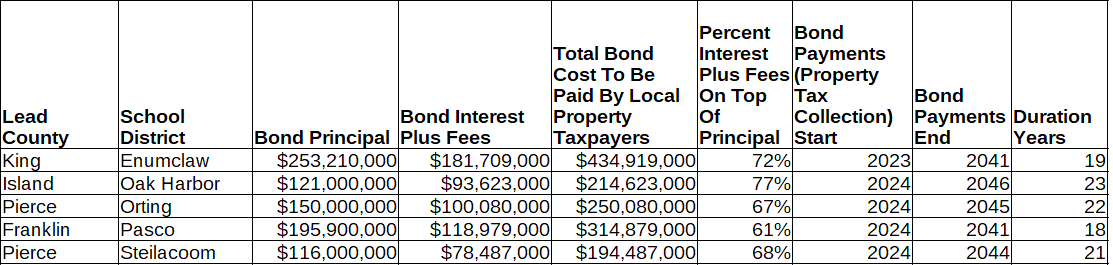
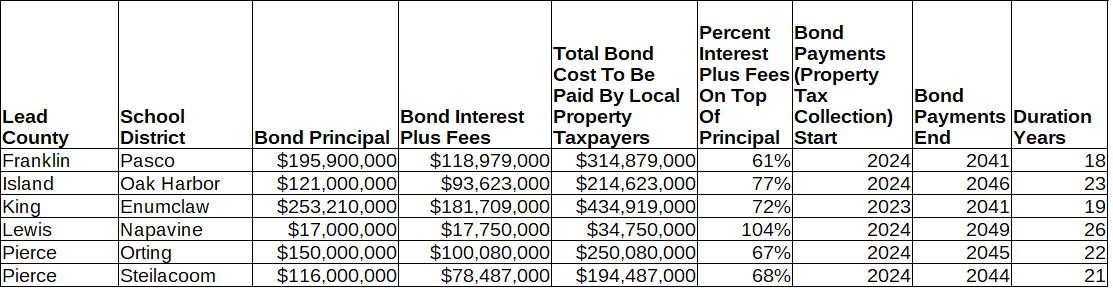
Added Napavine bond info

Changed region(s): [[0.0, 0.0906, 1.0, 1.0], [0.0, 0.0, 0.9775, 0.0302]]

diff --git a/_includes/cost_estimates/20230214/Napavine_20230214_Enhanced.html b/_includes/cost_estimates/20230214/Napavine_20230214_Enhanced.html
@@ -1,0 +1,233 @@
+<html>
+ <head>
+  <script type="text/javascript" src="https://www.gstatic.com/charts/loader.js"></script>
+  <script type="text/javascript">
+    google.charts.load('current', {'packages':['corechart','bar','table']});
+    google.charts.setOnLoadCallback(drawStuff);
+
+	var table_input;
+	var table;
+	var chart;
+	//var data;
+	var dataParcel;
+	
+	totalBondAV = 655773000;
+	sampleParcelAV = 350000;
+	sampleParcelAVMin = 100000;
+	sampleParcelAVMax = 2000000;
+	totalBondPrincipal = 17000000;
+	totalBondInterest = 17750000;
+	totalBondCost = totalBondPrincipal + totalBondInterest;
+	sampleParcelPOF = sampleParcelAV / totalBondAV;
+	totalBondCostParcel = 0;
+	totalBondPrincipalParcel = 0;
+	totalBondInterestParcel = 0;
+	bondYears = 26;
+	averageTotalBondCostParcel = 0;
+
+	// POF Annual Change Percent
+	pofAdjust = 0;
+	pofAdjustMin = -1.0;
+	pofAdjustMax = 1.0;
+
+    function drawStuff() {
+		data = new google.visualization.DataTable();
+		data.addColumn('string', 'Year');
+		data.addColumn('number', 'Principal');
+		data.addColumn('number', 'Interest + Fees');
+
+		data.addRows([
+			['2024', 533250, 522750],
+			['2025', 53045, 1056955],
+			['2026', 154057, 1000943],
+			['2027', 231451, 991549],
+			['2028', 256573, 977427],
+			['2029', 282226, 961774],
+			['2030', 313566, 944434],
+			['2031', 344833, 925167],
+			['2032', 381021, 903979],
+			['2033', 416433, 880567],
+			['2034', 453022, 854978],
+			['2035', 498860, 827140],
+			['2036', 539286, 796714],
+			['2037', 584177, 763823],
+			['2038', 635009, 727991],
+			['2039', 689740, 689260],
+			['2040', 744807, 647193],
+			['2041', 804231, 601769],
+			['2042', 868280, 552720],
+			['2043', 932237, 499763],
+			['2044', 1006093, 442907],
+			['2045', 1078457, 381543],
+			['2046', 1163237, 315763],
+			['2047', 1248183, 244817],
+			['2048', 1337593, 167407],
+			['2049', 1450333, 70667],
+
+		]);
+
+		dataParcel = new google.visualization.DataTable();
+		dataParcel.addColumn('string', 'Year');
+		dataParcel.addColumn('number', 'Principal');
+		dataParcel.addColumn('number', 'Interest + Fees');
+
+		dataParcel.addRows(bondYears);
+
+		sampleParcelPOFEffective = sampleParcelPOF;
+		totalBondPrincipalParcel = 0;
+		totalBondInterestParcel = 0;
+		for (let i = 0; i < bondYears; i++) {
+			sampleParcelPOFEffective = sampleParcelPOF * (1 + pofAdjust/100) ** (1 + i);
+			dataParcel.setCell(i, 0, data.getValue(i, 0));
+			dataParcel.setCell(i, 1, data.getValue(i, 1) * sampleParcelPOFEffective);
+			dataParcel.setCell(i, 2, data.getValue(i, 2) * sampleParcelPOFEffective);
+			totalBondPrincipalParcel = totalBondPrincipalParcel +  data.getValue(i, 1) * sampleParcelPOFEffective;
+			totalBondInterestParcel = totalBondInterestParcel +  data.getValue(i, 2) * sampleParcelPOFEffective;
+		}		
+		totalBondCostParcel = totalBondPrincipalParcel + totalBondInterestParcel;
+		averageTotalBondCostParcel = totalBondCostParcel / bondYears;
+
+		options = {
+			title: 'Estimated Bond Cost Schedule For The Sample Parcel',
+			isStacked: true,
+			hAxis: {
+			title: '',
+			//format: 'h:mm a',
+			viewWindow: {
+				min: [7, 30, 0],
+				max: [17, 30, 0]
+			}
+        },
+        vAxis: {
+			title: '$'
+        }
+		};
+	  
+
+		table_input_data = new google.visualization.DataTable();
+		table_input_data.addColumn('string', 'Description');
+		table_input_data.addColumn('number', 'Value');
+		table_input_data.addRows([
+			['Sample Parcel 2022 Tax Year Assessed Value (AV)', sampleParcelAV],
+		]);
+
+		table_data = new google.visualization.DataTable();
+		table_data.addColumn('string', 'Description');
+		table_data.addColumn('number', 'Value');
+		table_data.addRows([
+			['Total cost', totalBondCostParcel],
+			['Average cost per year for 26 years', averageTotalBondCostParcel],
+			['Total principal cost', totalBondPrincipalParcel],
+			['Total interest + fees cost', totalBondInterestParcel],
+		]);
+
+	  
+		chart = new google.visualization.ColumnChart(document.getElementById('chart_div'));
+		formatter = new google.visualization.NumberFormat(
+		{prefix: '$', fractionDigits:0, negativeColor: 'red', negativeParens: true});
+		formatter.format(dataParcel, 1); // Apply formatter to second column
+		formatter.format(dataParcel, 2); // Apply formatter to third column
+		chart.draw(dataParcel, options);
+		
+		table = new google.visualization.Table(document.getElementById('table_output_div'));
+		formatter.format(table_data, 1); // Apply formatter to second column
+		table.draw(table_data, {sort:'disable'});
+		
+		table_input = new google.visualization.Table(document.getElementById('table_input_div'));
+		formatter.format(table_input_data, 1); // Apply formatter to second column
+		table_input.draw(table_input_data, {sort:'disable'});
+
+		// POF Adjust table
+		table_pof_adjust_input_data = new google.visualization.DataTable();
+		table_pof_adjust_input_data.addColumn('string', 'Description');
+		table_pof_adjust_input_data.addColumn('number', 'Value');
+		table_pof_adjust_input_data.addRows([
+			['POF annual change', pofAdjust ],
+		]);
+ 
+		// Input table for POF change
+		formatterPercent1 = new google.visualization.NumberFormat(
+			{suffix: '%', fractionDigits:1, negativeColor: 'red', negativeParens: false});
+		table_pof_adjust_input = new google.visualization.Table(document.getElementById('table_pof_adjust_input_div'));
+		formatterPercent1.format(table_pof_adjust_input_data, 1); // Apply formatter to second column
+		table_pof_adjust_input.draw(table_pof_adjust_input_data, {sort:'disable'});
+	}
+
+    function changeParcelAV(dir) {
+		//Update table input
+		sampleParcelAV = sampleParcelAV + dir
+		if (sampleParcelAV < sampleParcelAVMin)
+			sampleParcelAV = sampleParcelAVMin
+		if (sampleParcelAV > sampleParcelAVMax)
+			sampleParcelAV = sampleParcelAVMax
+		sampleParcelPOF = sampleParcelAV / totalBondAV;
+		table_input_data.setValue(0, 1, sampleParcelAV);
+		formatter.format(table_input_data, 1); // Apply formatter to second column
+		table_input.draw(table_input_data);
+
+		//Update chart
+		sampleParcelPOFEffective = sampleParcelPOF;
+		totalBondPrincipalParcel = 0;
+		totalBondInterestParcel = 0;
+		for (let i = 0; i < bondYears; i++) {
+			sampleParcelPOFEffective = sampleParcelPOF * (1 + pofAdjust/100) ** (1 + i);
+			dataParcel.setCell(i, 0, data.getValue(i, 0));
+			dataParcel.setCell(i, 1, data.getValue(i, 1) * sampleParcelPOFEffective);
+			dataParcel.setCell(i, 2, data.getValue(i, 2) * sampleParcelPOFEffective);
+			totalBondPrincipalParcel = totalBondPrincipalParcel +  data.getValue(i, 1) * sampleParcelPOFEffective;
+			totalBondInterestParcel = totalBondInterestParcel +  data.getValue(i, 2) * sampleParcelPOFEffective;
+		}		
+		totalBondCostParcel = totalBondPrincipalParcel + totalBondInterestParcel;
+		averageTotalBondCostParcel = totalBondCostParcel / bondYears;
+		formatter.format(dataParcel, 1); // Apply formatter to second column
+		formatter.format(dataParcel, 2); // Apply formatter to third column
+		chart.draw(dataParcel, options);
+
+		//Update table output
+		sampleParcelPOF = sampleParcelAV / totalBondAV;
+		//totalBondCostParcel = sampleParcelPOF * totalBondCost;
+		//totalBondPrincipalParcel = sampleParcelPOF * totalBondPrincipal;
+		//totalBondInterestParcel = sampleParcelPOF * totalBondInterest;
+		table_data.setValue(0, 1, totalBondCostParcel); // Total bond cost parcel
+		table_data.setValue(1, 1, averageTotalBondCostParcel); // Average cost per year for parcel
+		table_data.setValue(2, 1, totalBondPrincipalParcel); // Total principal for parcel
+		table_data.setValue(3, 1, totalBondInterestParcel); // Total interest + fees for parcel
+		formatter.format(table_data, 1); // Apply formatter to second column
+		table.draw(table_data);
+    }
+	
+	function changePOFChange(dir) {
+		pofAdjust = pofAdjust + dir;
+		if (pofAdjust < pofAdjustMin)
+			pofAdjust = pofAdjustMin;
+		if (pofAdjust > pofAdjustMax)
+			pofAdjust = pofAdjustMax;
+		table_pof_adjust_input_data.setValue(0, 1, pofAdjust);
+		formatterPercent1.format(table_pof_adjust_input_data, 1); // Apply formatter to second column
+		table_pof_adjust_input.draw(table_pof_adjust_input_data);
+		changeParcelAV(0);
+	}
+
+  </script>
+ </head>
+ <body>
+  <H2>Property tax impact estimate calculator for the February 14th 2023 bond measure proposed by the Napavine SD</H2>
+  <p>Created by the author independently from and not associated with the school district</p>
+  <H3>Input</H3>
+  <div id="table_input_div" style="width:1200px; height: 60px;"></div>
+  <input type="button" value="Increase Sample Parcel 2022 Tax Year AV" onclick="changeParcelAV(50000)" />
+  <input type="button" value="Decrease Sample Parcel 2022 Tax Year AV" onclick="changeParcelAV(-50000)" />
+  <p></p>
+  <div id="table_pof_adjust_input_div" style="width:1200px; height: 60px;"></div>
+  <input type="button" value="Increase POF Annual Change" onclick="changePOFChange(0.1)" />
+  <input type="button" value="Decrease POF Annual Change" onclick="changePOFChange(-0.1)" />
+  <p></p>
+  <H3>Output</H3>
+  <p>Estimated obligations for the sample parcel</P>
+  <div id="table_output_div" style="width:1200px; height: 130px;"></div>
+  <div id="chart_div" style="width:800px; height: 640px;"></div>
+  <H3>Data Sources</H3>
+  <p>District's bond/levy projection datasheet obtained from a public records request</p>
+ </body>
+</html>
+

diff --git a/pagesManual/LeviesReport/report_levies_20230214.md b/pagesManual/LeviesReport/report_levies_20230214.md
@@ -60,6 +60,8 @@ ___
 
 [Calculator for the Marysville SD's Enrichment Measure](calculator_marysville_20230214_enhanced){:target="_blank" rel="noopener"}
 
+[Calculator for the Napavine SD's Bond Measure](calculator_napavine_20230214_enhanced){:target="_blank" rel="noopener"}
+
 [Calculator for the Oak Harbor SD's Bond Measure](calculator_oak_harbor_20230214_enhanced){:target="_blank" rel="noopener"}
 
 [Calculator for the Okanogan SD's Enrichment Measure](calculator_okanogan_20230214_enhanced){:target="_blank" rel="noopener"}
@@ -125,6 +127,8 @@ ___
 ## Bond amounts charts
 
 ![Enumclaw SD bond amounts chart](pagesManual/LeviesReport/20230214/Enumclaw.png "Enumclaw SD bond amounts chart")
+
+![Napavine SD bond amounts chart](pagesManual/LeviesReport/20230214/Napavine.png "Napavine SD bond amounts chart")
 
 ![Oak Harbor SD bond amounts chart](pagesManual/LeviesReport/20230214/OakHarbor.png "Oak Harbor SD bond amounts chart")
 

diff --git a/pagesManual/LeviesReport/20230214/calculator_napavine_20230214_enhanced.md b/pagesManual/LeviesReport/20230214/calculator_napavine_20230214_enhanced.md
@@ -1,0 +1,13 @@
+---
+layout: page
+title: Calculator
+permalink: calculator_napavine_20230214_enhanced
+---
+
+___
+
+{% include cost_estimates/20230214/Napavine_20230214_Enhanced.html %}
+
+___
+
+
